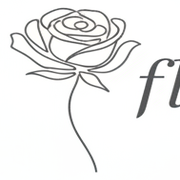
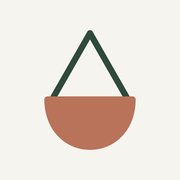
ロゴはB案で決定・ファビコンをB案に更新

Changed region(s): [[0.0556, 0.0278, 1.0, 0.8611], [0.5, 0.8611, 0.5556, 0.9722], [0.1389, 0.3056, 0.2222, 0.3611]]

diff --git a/app/components/Logo.tsx b/app/components/Logo.tsx
@@ -1,4 +1,4 @@
-// flowerデリ のロゴ（B案：吊り鉢のマーク＋ゴシック）。2026-10-21 刷新時の仮置き。決定案に差し替える
+// flowerデリ のロゴ（B案：吊り鉢のマーク＋ゴシック）。2026-10-21 MediaXAI 決定
 export function LogoMark({ size = 40, light = false }: { size?: number; light?: boolean }) {
   const ink = light ? "#F6F4EF" : "#2F4A3A";
   const pot = light ? "#D99A7E" : "#B8735A";
